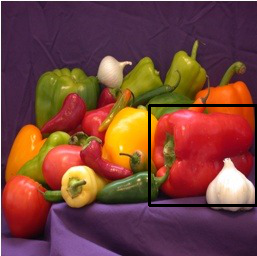
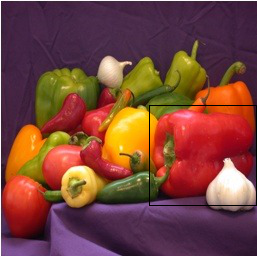
OFFLINE2, CSE474 Completed

Changed region(s): [[0.5603, 0.4062, 1.0, 0.8125]]

diff --git a/CSE474/OFFLINE2/1305043.py b/CSE474/OFFLINE2/1305043.py
@@ -56,16 +56,17 @@ def getValue(tmp,template):
 	return np.sum(dTmp**2)
 
 
-def ExhaustiveSearch(template,main):
-	print("Running: ExhaustiveSearch")
+def ExhaustiveSearch(template,main,show=True):
+	if(show==True):
+		print("Running: ExhaustiveSearch")
 	
 	# print("Temlate Size-->",end="")	
 	# print(template.shape)
 	# print("Main Image Size-->",end="")	
 	# print(main.shape)
 
-	startTime = time.time()
-	print("Start Time: ",startTime)
+		startTime = time.time()
+		print("Start Time: ",startTime)
 
 	t_h,t_w,t_d = template.shape
 	m_h,m_w,m_d = main.shape
@@ -81,36 +82,36 @@ def ExhaustiveSearch(template,main):
 			#print(main[i:i+t_h,j:j+t_w,:].shape,template.shape)
 			tmp = main[i:i+t_h,j:j+t_w,:]
 			D[i][j] = getValue(tmp, template)
-
-	print("MAX MATCHED IMAGE-->",end="")	
-	print(unravel_index(D.argmin(),D.shape))
-
 	r,c = unravel_index(D.argmin(),D.shape)
 	
-
-	endTime = time.time()
-	print("End Time: ",endTime)
-	print("Total Time Taken: ",endTime-startTime," second(s)")
+	if(show==True):
+		print("MAX MATCHED IMAGE-->",end="")	
+		print(r,c)
+		endTime = time.time()
+		print("End Time: ",endTime)
+		print("Total Time Taken: ",endTime-startTime," second(s)")
 
 	
-	cv2.rectangle(main,(c,r), (c+t_w,r+t_h),(0,0,0),2)
-	show_image(main, 'ExhaustiveSearch',True)
+		cv2.rectangle(main,(c,r), (c+t_w,r+t_h),(0,0,0),1)
+		show_image(main, 'ExhaustiveSearch',True)
 
-	return ((r,c),endTime-startTime)
-
-
-
+		return ((r,c),endTime-startTime)
+	return (r,c)
 
 
-def TDLSearch(template,main,p):
-	print("Running: 2DLogarithmicSearch")
+
+
+
+def TDLSearch(template,main,p,show=True):
+	if(show==True):
+		print("Running: 2DLogarithmicSearch")
 	# print("Temlate Size-->",end="")	
 	# print(template.shape)
 	# print("Main Image Size-->",end="")	
 	# print(main.shape)
 
-	startTime = time.time()
-	print("Start Time: ",startTime)
+		startTime = time.time()
+		print("Start Time: ",startTime)
 
 
 	t_h,t_w,t_d = template.shape
@@ -140,7 +141,7 @@ def TDLSearch(template,main,p):
 	while(p>=1):
 		k=np.ceil(np.log2(p))
 		d = 2**(k-1)
-		print(d,k)
+		#print(d,k)
 		pts = getPoints(centerPoint,d)
 		
 		pts.append(centerPoint)
@@ -165,27 +166,53 @@ def TDLSearch(template,main,p):
 	c = centerPoint[1]
 	r = centerPoint[0]
 	
-	print("MAX MATCHED IMAGE-->",end="")
-	print(r,c)
+	if(show==True):
+		print("MAX MATCHED IMAGE-->",end="")
+		print(r,c)
 
 
 	
-	endTime = time.time()
-	print("End Time: ",endTime)
-	print("Total Time Taken: ",endTime-startTime," second(s)")
+		endTime = time.time()
+		print("End Time: ",endTime)
+		print("Total Time Taken: ",endTime-startTime," second(s)")
 
 
-	cv2.rectangle(main,(c,r), (c+t_w,r+t_h),(0,0,0),2)
-	show_image(main, '2DLogarithmicSearch',True)
+		cv2.rectangle(main,(c,r), (c+t_w,r+t_h),(0,0,0),1)
+		show_image(main, '2DLogarithmicSearch',True)
 
 
-	return ((r,c),endTime-startTime)
+		return ((r,c),endTime-startTime)
+
+	return (r,c)
 
 
 
 
+def HeirarchicalSearch(template,main,level,show=True):
 
-def HeirarchicalSearch(template,main,level):
+	if(show==True):
+		print("Running: HeirarchicalSearch")
+	# print("Temlate Size-->",end="")	
+	# print(template.shape)
+	# print("Main Image Size-->",end="")	
+	# print(main.shape)
+
+		startTime = time.time()
+		print("Start Time: ",startTime)
+
+
+	t_h,t_w,t_d = template.shape
+	m_h,m_w,m_d = main.shape
+
+	blur_main = main.copy()
+	blur_temp = template.copy()
+	
+	m_arr = []
+	t_arr = []
+
+	m_arr.append(main)
+	t_arr.append(template)
+
 
 	for i in range(level):
 		blur_main = cv2.GaussianBlur(main,(9,9),0)  #blur
@@ -194,7 +221,76 @@ def HeirarchicalSearch(template,main,level):
 		blur_temp = cv2.GaussianBlur(template,(9,9),0)
 		blur_temp = blur_temp[1::2,1::2]
 
+		m_arr.append(blur_main.copy())
+		t_arr.append(blur_temp.copy())
+
+
+	
+
+	dx = [1,1,1,0,0,-1,-1,-1]
+	dy = [0,1,-1,1,-1,0,1,-1]
+
+	def getPoints(center,d):
+		pts=[]
+		for i in range(8):
+			pts.append((int(center[0]+dy[i]*d),int(center[1]+dx[i]*d)))
+		return pts
+
+
+
+	centerPoint = (np.inf,np.inf)
+
+	for i in range(level):
 		
+		centerPoint = TDLSearch(blur_temp, blur_main,25,show=False)
+		
+		mmain = m_arr[level-i]
+		ttmpl = t_arr[level-i]
+
+
+		tt_h,tt_w,tt_d = ttmpl.shape
+		mm_h,mm_w,mm_d = mmain.shape
+
+
+		pts = getPoints(centerPoint, 1)
+		pts.append(centerPoint)
+
+		mn = np.inf
+
+		for pt in pts:
+			if(pt[0]+tt_h<mm_h and pt[1]+tt_w<mm_w):
+				tmp = mmain[pt[0]:pt[0]+tt_h,pt[1]:pt[1]+tt_w,:]
+				cur = getValue(tmp, ttmpl)
+				if(cur<=mn):
+					mn = cur
+					centerPoint = pt
+
+		centerPoint = (int(2.0*centerPoint[0]),int(2.0*centerPoint[1]))
+
+
+
+	r,c = centerPoint
+
+	if(show==True):
+		print("MAX MATCHED IMAGE-->",end="")
+		print(r,c)
+
+
+	
+		endTime = time.time()
+		print("End Time: ",endTime)
+		print("Total Time Taken: ",endTime-startTime," second(s)")
+
+
+		cv2.rectangle(main,(c,r), (c+t_w,r+t_h),(0,0,0),1)
+		show_image(main, 'HeirarchicalSearch',True)
+
+
+		return ((r,c),endTime-startTime)
+
+	return (r,c)
+
+
 
 
 
@@ -219,18 +315,26 @@ def main():
 	print(imgMain)
 	print(imgTemplate)
 
-	#t_es = (ExhaustiveSearch(template,mainImage))[1]
-	#t_tdls= (TDLSearch(template, mainImage,20))[1]
-	HeirarchicalSearch(template, mainImage, 2)
-
-	#print(t_es,t_tdls)
 
 
+
+
+	t_es = (ExhaustiveSearch(template.copy(),mainImage.copy()))[1]
+
+	P=20
+	t_tdls = (TDLSearch(template.copy(), mainImage.copy(),P))[1]
+	
+	LEVEL = 2
+	t_hs = (HeirarchicalSearch(template.copy(), mainImage.copy(), LEVEL))[1]
+
+
+
+
+	print("ExhaustiveSearch: ",t_es)
+	print("2DLogarithmicSearch: ",t_tdls)
+	print("HeirarchicalSearch: ",t_hs)
 
 	#Test(imgTemplate, imgMain)
-
-
-
 
 
 
